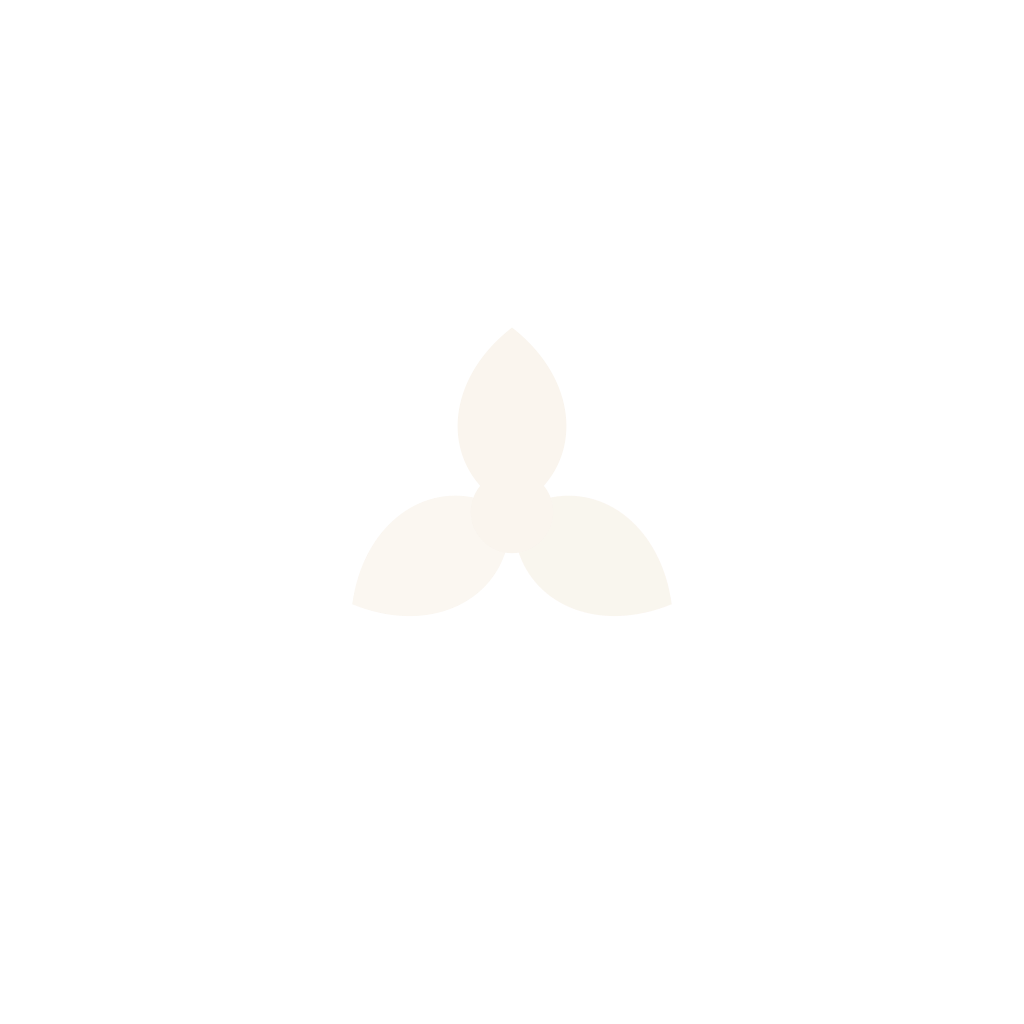
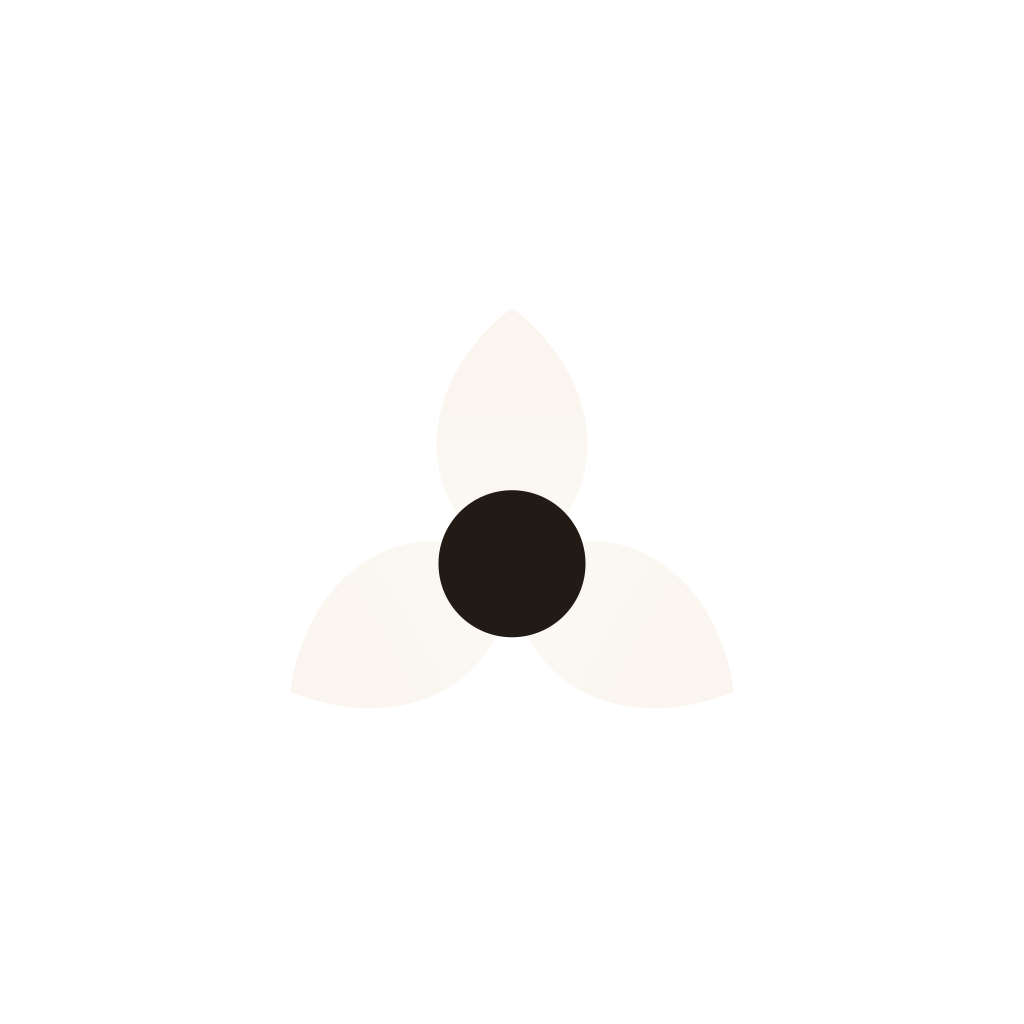
native: pre-auth funnel stays on-brand + crisper Sumaiya mark
Seam fix — a dark phone dropped users from the ember-lit onboarding onto a
near-black sign-in screen. The pre-auth funnel (splash, onboarding,
sign-in, first-run) is a designed brand runway, so pin it to the cream
palette regardless of the device / in-app dark-mode setting:

- ThemeScope context in components/ui/theme; useThemeColors / useIsDark
  honour a pinned scheme. Root navigator wraps Splash, Onboarding, Auth and
  FirstRun in <ThemeScope mode="light">.
- StatusBar style="dark" on each pre-auth screen so the icons read on cream.

Mark quality:
- SumaiyaMark and OnboardingArt render the SVG at 2–3× and scale the bitmap
  down — Android rasterises a View to rotate/scale it, which was turning the
  always-spinning mark into a soft "low-res" blur.
- Blades now carry a gentle length gradient (bright tip → softer core)
  instead of flat per-blade opacity.
- Dark espresso core dot (was same colour as the blades) — the aperture the
  blades open around. Applied to the mark, the onboarding art, and the app
  icons.
- Regenerated icon / adaptive-icon / splash-icon: mark ~72% of the tile (was
  swallowed by orange), centred on its visual axis, vector-crisp.

Claude-Session: https://claude.ai/code/session_01DuiJtU7bZvCiCkoaEKTqes

Changed region(s): [[0.4062, 0.4688, 0.5938, 0.625]]

diff --git a/apps/native/src/components/onboarding-art.tsx b/apps/native/src/components/onboarding-art.tsx
@@ -19,6 +19,7 @@ const EMBER = "#DA4A1C";
 const EMBER_DEEP = "#A8330F";
 const PINE = "#12433D";
 const GOLD = "#F2A93B";
+const ESPRESSO = "#211A15"; // the dark core the blades open around
 
 /** A 3-blade rosette centred on (cx,cy) at a given scale + rotation + fill. */
 function Rosette({
@@ -71,7 +72,7 @@ export function OnboardingArt({ variant, size = 148 }: Props) {
         <>
           <Circle cx={mid} cy={mid} r={54} fill={`url(#${halo})`} />
           <Rosette cx={mid} cy={mid} scale={3.1} rotate={-8} fill={`url(#${emberGold})`} />
-          <Circle cx={mid} cy={mid} r={5.5} fill={GOLD} />
+          <Circle cx={mid} cy={mid} r={5.5} fill={ESPRESSO} />
         </>
       );
       break;
@@ -82,7 +83,7 @@ export function OnboardingArt({ variant, size = 148 }: Props) {
           <Circle cx={mid} cy={mid} r={52} fill={`url(#${halo})`} />
           <Rosette cx={mid - 15} cy={mid + 6} scale={2.4} rotate={20} fill={PINE} opacity={0.9} />
           <Rosette cx={mid + 15} cy={mid - 6} scale={2.4} rotate={-20} fill={`url(#${emberGold})`} />
-          <Circle cx={mid} cy={mid} r={4.5} fill={GOLD} />
+          <Circle cx={mid} cy={mid} r={4.5} fill={ESPRESSO} />
         </>
       );
       break;
@@ -94,7 +95,7 @@ export function OnboardingArt({ variant, size = 148 }: Props) {
           <Rosette cx={mid} cy={mid} scale={4.3} rotate={12} fill={EMBER} opacity={0.16} />
           <Rosette cx={mid} cy={mid} scale={3.2} rotate={-6} fill={EMBER} opacity={0.34} />
           <Rosette cx={mid} cy={mid} scale={2.1} rotate={16} fill={`url(#${emberGold})`} />
-          <Circle cx={mid} cy={mid} r={4.5} fill={GOLD} />
+          <Circle cx={mid} cy={mid} r={4.5} fill={ESPRESSO} />
         </>
       );
       break;
@@ -106,14 +107,20 @@ export function OnboardingArt({ variant, size = 148 }: Props) {
           <Rosette cx={mid + 18} cy={mid + 20} scale={1.5} rotate={0} fill={EMBER_DEEP} opacity={0.55} />
           <Rosette cx={mid + 4} cy={mid + 4} scale={2.2} rotate={-14} fill={EMBER} opacity={0.85} />
           <Rosette cx={mid - 14} cy={mid - 16} scale={3.0} rotate={-28} fill={`url(#${goldEmber})`} />
-          <Circle cx={mid - 14} cy={mid - 16} r={5} fill={GOLD} />
+          <Circle cx={mid - 14} cy={mid - 16} r={5} fill={ESPRESSO} />
         </>
       );
   }
 
+  // Supersample: render 2× and scale the bitmap down so the art stays crisp
+  // while the slide's scale/opacity transforms rasterise it on Android.
+  const SS = 2;
   return (
-    <Animated.View entering={FadeIn.duration(420)} style={{ width: size, height: size }}>
-      <Svg width={size} height={size} viewBox={`0 0 ${V} ${V}`}>
+    <Animated.View
+      entering={FadeIn.duration(420)}
+      style={{ width: size, height: size, alignItems: "center", justifyContent: "center" }}
+    >
+      <Svg width={size * SS} height={size * SS} viewBox={`0 0 ${V} ${V}`} style={{ transform: [{ scale: 1 / SS }] }}>
         <Defs>
           <RadialGradient id={halo} cx="50%" cy="50%" r="50%">
             <Stop offset="0" stopColor={EMBER} stopOpacity={0.16} />
@@ -130,6 +137,10 @@ export function OnboardingArt({ variant, size = 148 }: Props) {
             <Stop offset="1" stopColor={GOLD} />
           </LinearGradient>
         </Defs>
+        {/* Soft concentric guide rings — depth under every scene, so the art
+            reads as crafted rather than a flat stamp. */}
+        <Circle cx={mid} cy={mid} r={46} fill="none" stroke={EMBER} strokeWidth={0.6} opacity={0.12} />
+        <Circle cx={mid} cy={mid} r={34} fill="none" stroke={GOLD} strokeWidth={0.6} opacity={0.16} />
         {scene}
       </Svg>
     </Animated.View>

diff --git a/apps/native/src/components/sumaiya-mark.tsx b/apps/native/src/components/sumaiya-mark.tsx
@@ -1,5 +1,5 @@
 import React, { useEffect } from "react";
-import Svg, { Path, Circle, G } from "react-native-svg";
+import Svg, { Path, Circle, G, Defs, LinearGradient, Stop } from "react-native-svg";
 import Animated, {
   useSharedValue,
   useAnimatedStyle,
@@ -38,9 +38,16 @@ interface Props {
   size?: number;
   state?: SumaiyaMarkState;
   color?: string;
+  /** The core dot. Espresso by default — the dark centre the blades open around. */
+  centerColor?: string;
 }
 
-export function SumaiyaMark({ size = 20, state = "idle", color = "#DA4A1C" }: Props) {
+export function SumaiyaMark({
+  size = 20,
+  state = "idle",
+  color = "#DA4A1C",
+  centerColor = "#211A15",
+}: Props) {
   const angle = useSharedValue(0);
   const dps = useSharedValue(SPEED.idle);
   const breath = useSharedValue(1);
@@ -87,15 +94,35 @@ export function SumaiyaMark({ size = 20, state = "idle", color = "#DA4A1C" }: Pr
     transform: [{ rotate: `${angle.value}deg` }, { scale: breath.value }] as never,
   }));
 
+  // Android rasterises a View to a bitmap to rotate it, so an SVG rendered at
+  // its exact layout size turns into a soft, "low-res" blur while spinning.
+  // Render the SVG at 3× and scale the bitmap back down — same footprint, but
+  // there are enough pixels for the rotation to stay crisp.
+  const SS = 3;
+  const gid = React.useId().replace(/[^a-zA-Z0-9]/g, "");
+  const blade = `smk${gid}`;
   return (
-    <Animated.View style={[{ width: size, height: size }, style]}>
-      <Svg width={size} height={size} viewBox="0 0 24 24">
+    <Animated.View style={[{ width: size, height: size, alignItems: "center", justifyContent: "center" }, style]}>
+      <Svg
+        width={size * SS}
+        height={size * SS}
+        viewBox="0 0 24 24"
+        style={{ transform: [{ scale: 1 / SS }] }}
+      >
+        <Defs>
+          {/* One gradient down each blade's axis — bright at the tip, deepening
+              toward the core. Rotates with the blade (objectBoundingBox). */}
+          <LinearGradient id={blade} x1="0.5" y1="0" x2="0.5" y2="1">
+            <Stop offset="0" stopColor={color} stopOpacity={1} />
+            <Stop offset="1" stopColor={color} stopOpacity={0.74} />
+          </LinearGradient>
+        </Defs>
         <G>
-          <Path d={BLADE} fill={color} />
-          <Path d={BLADE} fill={color} opacity={0.9} transform="rotate(120 12 12)" />
-          <Path d={BLADE} fill={color} opacity={0.8} transform="rotate(240 12 12)" />
+          <Path d={BLADE} fill={`url(#${blade})`} />
+          <Path d={BLADE} fill={`url(#${blade})`} transform="rotate(120 12 12)" />
+          <Path d={BLADE} fill={`url(#${blade})`} transform="rotate(240 12 12)" />
         </G>
-        <Circle cx={12} cy={12} r={2.1} fill={color} />
+        <Circle cx={12} cy={12} r={2.7} fill={centerColor} />
       </Svg>
     </Animated.View>
   );

diff --git a/apps/native/src/navigation/root-navigator.tsx b/apps/native/src/navigation/root-navigator.tsx
@@ -34,6 +34,7 @@ import { AppTabs } from "./stacks/app-tabs";
 import { OnboardingScreen } from "../screens/onboarding-screen";
 import { FirstRunScreen, FIRST_RUN_KEY } from "../screens/first-run-screen";
 import { SplashScreen } from "../screens/splash-screen";
+import { ThemeScope } from "../components/ui";
 
 const Stack = createNativeStackNavigator<RootStackParamList, undefined>();
 
@@ -152,11 +153,23 @@ export function RootNavigator() {
   }, []);
 
   if (loading || checkingOnboarding) {
-    return <SplashScreen />;
+    return (
+      <ThemeScope mode="light">
+        <SplashScreen />
+      </ThemeScope>
+    );
   }
 
   return (
-    <NavigationContainer ref={navRef} linking={linking} fallback={<SplashScreen />}>
+    <NavigationContainer
+      ref={navRef}
+      linking={linking}
+      fallback={
+        <ThemeScope mode="light">
+          <SplashScreen />
+        </ThemeScope>
+      }
+    >
       <Stack.Navigator
         id={undefined}
         screenOptions={{
@@ -173,16 +186,28 @@ export function RootNavigator() {
         {!hasSeenOnboarding ? (
           <Stack.Screen name="Onboarding" options={{ animationTypeForReplace: "pop" }}>
             {(props) => (
-              <OnboardingScreen navigation={props.navigation} onComplete={markOnboardingComplete} />
+              <ThemeScope mode="light">
+                <OnboardingScreen navigation={props.navigation} onComplete={markOnboardingComplete} />
+              </ThemeScope>
             )}
           </Stack.Screen>
         ) : !user ? (
-          <Stack.Screen name="Auth" component={AuthStack} />
+          <Stack.Screen name="Auth">
+            {() => (
+              <ThemeScope mode="light">
+                <AuthStack />
+              </ThemeScope>
+            )}
+          </Stack.Screen>
         ) : !firstRunDone ? (
           // First real run after sign-in: a guided profile setup so Sumaiya
           // starts knowing the user (skippable — they can fill it in Profile).
           <Stack.Screen name="FirstRun">
-            {() => <FirstRunScreen onDone={markFirstRunDone} />}
+            {() => (
+              <ThemeScope mode="light">
+                <FirstRunScreen onDone={markFirstRunDone} />
+              </ThemeScope>
+            )}
           </Stack.Screen>
         ) : (
           <Stack.Screen name="App" component={AppTabs} />

diff --git a/apps/native/src/components/ui/theme.ts b/apps/native/src/components/ui/theme.ts
@@ -1,3 +1,4 @@
+import React from "react";
 import { useColorScheme } from "nativewind";
 
 // Raw color values for the places NativeWind classes can't reach:
@@ -61,12 +62,42 @@ const dark: ThemeColors = {
   overlay: "rgba(0, 0, 0, 0.6)",
 };
 
+/**
+ * Pins a subtree to one palette regardless of the device / in-app dark-mode
+ * setting. The pre-auth funnel — onboarding, sign-in, first-run — is a designed
+ * brand runway in warm cream; dark mode is an in-app preference that only makes
+ * sense once you're inside the app. Without this, a dark phone drops you from
+ * the ember-lit onboarding onto a near-black sign-in screen and the seam shows.
+ */
+const ForcedTheme = React.createContext<"light" | "dark" | null>(null);
+
+export function ThemeScope({
+  mode,
+  children,
+}: {
+  mode: "light" | "dark";
+  children: React.ReactNode;
+}) {
+  return React.createElement(ForcedTheme.Provider, { value: mode }, children);
+}
+
+/** Read the pinned palette name, if any ancestor pinned one. */
+export function useForcedScheme(): "light" | "dark" | null {
+  return React.useContext(ForcedTheme);
+}
+
 export function useThemeColors(): ThemeColors {
+  const forced = React.useContext(ForcedTheme);
   const { colorScheme } = useColorScheme();
-  return colorScheme === "dark" ? dark : light;
+  const scheme = forced ?? colorScheme;
+  return scheme === "dark" ? dark : light;
 }
 
 export function useIsDark(): boolean {
+  const forced = React.useContext(ForcedTheme);
   const { colorScheme } = useColorScheme();
-  return colorScheme === "dark";
+  return (forced ?? colorScheme) === "dark";
 }
+
+/** The raw light palette, for navigator-level style props that can't call a hook. */
+export const brandLight = light;

diff --git a/apps/native/src/screens/onboarding-screen.tsx b/apps/native/src/screens/onboarding-screen.tsx
@@ -1,5 +1,6 @@
 import React, { useEffect, useRef, useState } from "react";
 import { BackHandler, Dimensions, Pressable, Text, View } from "react-native";
+import { StatusBar } from "expo-status-bar";
 import { useSafeAreaInsets } from "react-native-safe-area-context";
 import Animated, {
   Easing,
@@ -298,13 +299,19 @@ export function OnboardingScreen({ onComplete }: Props) {
   }));
 
   if (stage === "welcome") {
-    return <WelcomeStage markState={markState} onPick={pickLanguage} />;
+    return (
+      <>
+        <StatusBar style="dark" />
+        <WelcomeStage markState={markState} onPick={pickLanguage} />
+      </>
+    );
   }
 
   const isLast = page === SLIDES.length - 1;
 
   return (
     <View style={{ flex: 1, backgroundColor: c.bg }}>
+      <StatusBar style="dark" />
       {(stage === "slides" || stage === "portal") && (
         <Animated.View
           entering={FadeIn.duration(420)}

diff --git a/apps/native/src/screens/auth/sign-in-screen.tsx b/apps/native/src/screens/auth/sign-in-screen.tsx
@@ -1,6 +1,7 @@
 import React, { useRef, useState } from "react";
 import { Pressable, Text, TextInput, View } from "react-native";
 import Animated, { FadeIn, FadeInRight, FadeOutLeft } from "react-native-reanimated";
+import { StatusBar } from "expo-status-bar";
 import type { NativeStackScreenProps } from "@react-navigation/native-stack";
 import type { AuthStackParamList } from "../../navigation/types";
 import { useAuthContext } from "../../contexts/auth-context";
@@ -129,6 +130,8 @@ export function SignInScreen(_props: Props) {
   );
 
   return (
+    <>
+    <StatusBar style="dark" />
     <Screen
       footer={
         step === "email" ? (
@@ -252,5 +255,6 @@ export function SignInScreen(_props: Props) {
         </Animated.View>
       )}
     </Screen>
+    </>
   );
 }

diff --git a/apps/native/src/screens/first-run-screen.tsx b/apps/native/src/screens/first-run-screen.tsx
@@ -9,6 +9,7 @@ import {
   View,
 } from "react-native";
 import { useSafeAreaInsets } from "react-native-safe-area-context";
+import { StatusBar } from "expo-status-bar";
 import Animated, { FadeIn, FadeInRight, FadeOutLeft } from "react-native-reanimated";
 import { setSecureItem } from "@sumaiya/utils";
 import { useAuthContext } from "../contexts/auth-context";
@@ -346,6 +347,7 @@ export function FirstRunScreen({ onDone }: Props) {
 
   return (
     <View style={{ flex: 1, backgroundColor: c.bg }}>
+      <StatusBar style="dark" />
       <View style={{ height: insets.top + 10 }} />
 
       {/* progress + skip */}

diff --git a/apps/native/src/components/ui/index.ts b/apps/native/src/components/ui/index.ts
@@ -8,7 +8,7 @@ export { SectionHeader } from "./section-header";
 export { ListRow, ListGroupLabel } from "./list-row";
 export { Stagger } from "./motion";
 export { haptics } from "./haptics";
-export { useThemeColors, useIsDark, type ThemeColors } from "./theme";
+export { useThemeColors, useIsDark, ThemeScope, useForcedScheme, brandLight, type ThemeColors } from "./theme";
 export { ScreenTitle } from "./screen-title";
 export { PromptModal } from "./prompt-modal";
 export { ProgressBar } from "./progress-bar";
